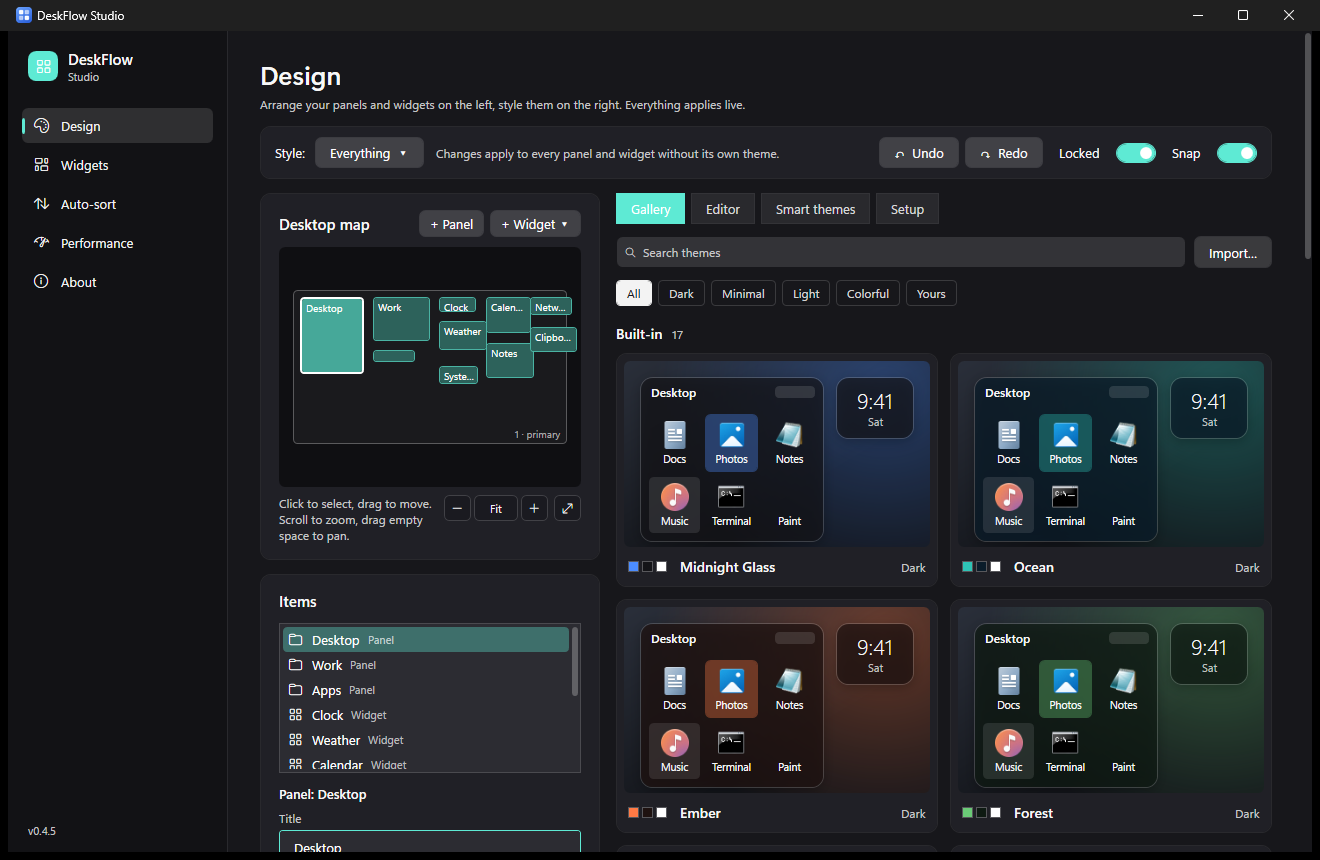
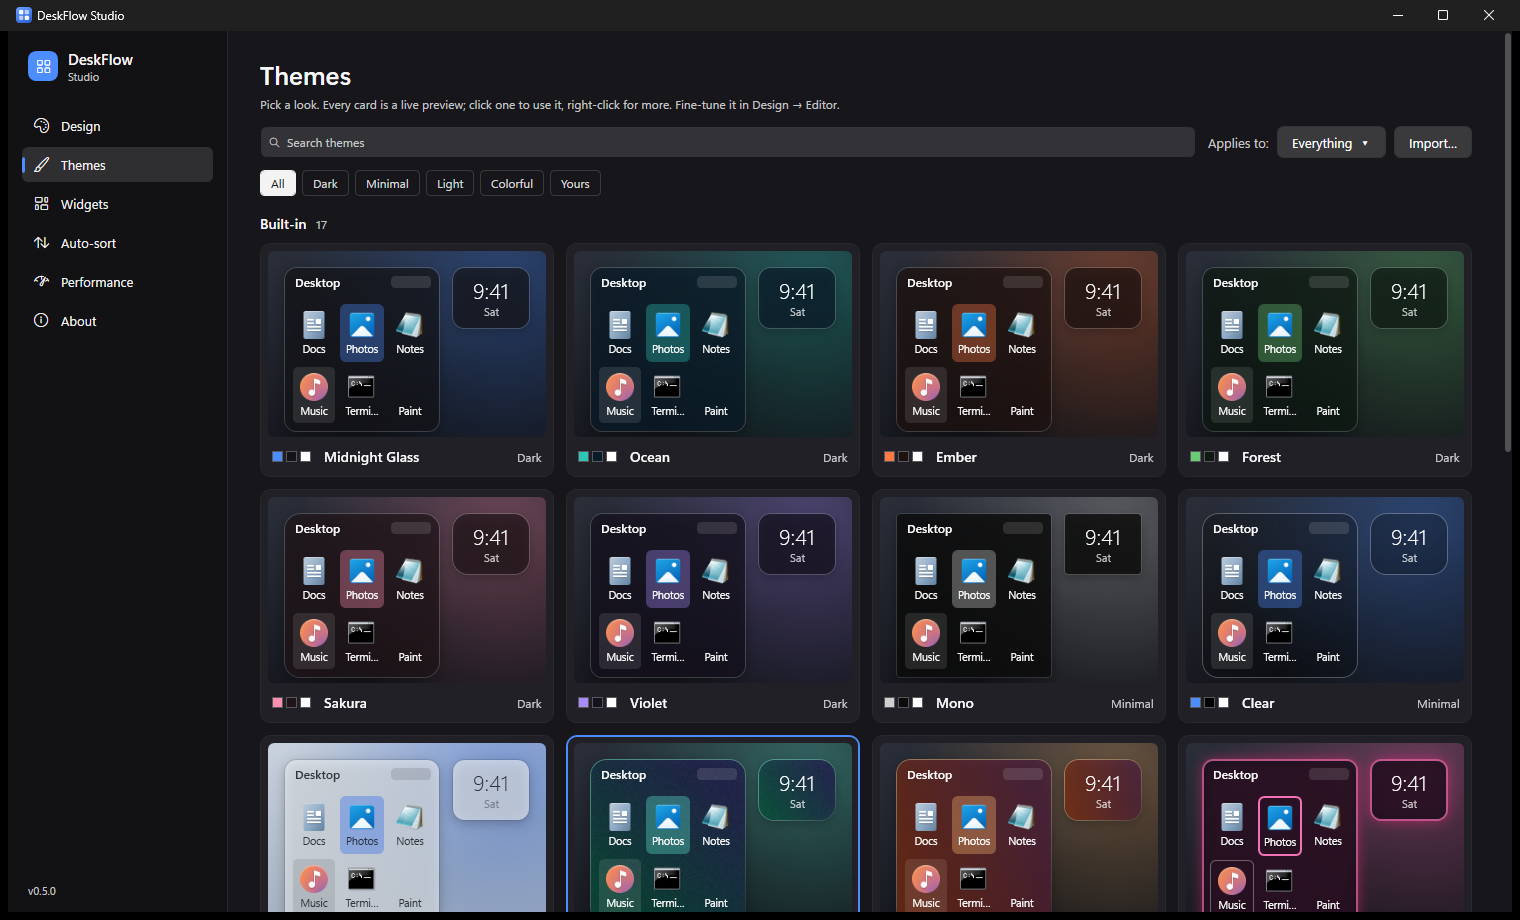
docs: DeskFlow 0.5.0 product page, changelog and screenshots

diff --git a/README.md b/README.md
@@ -72,16 +72,16 @@ clipboard history and notes.</sub>
 </div>
 
 **DeskFlow Studio**
-- A full editor for your layout: a live map of your monitors, exact positions, grid size and snapping.
-- The map **zooms and pans** (scroll to zoom, drag to pan) and can **expand to the full page**, so
-  even a crowded, multi-monitor layout stays easy to work with.
+- A **design workspace** laid out like a design app: a big live canvas of your monitors in the middle,
+  your panels and widgets as **layers** on the left, and an **inspector** on the right with the theme
+  **Editor**, **Smart themes** and **Settings**. Drag on the canvas and your real desktop moves with it.
+- The canvas **zooms and pans** (scroll to zoom, drag to pan), with a toolbar for zoom, fit and one button
+  per monitor, so even a crowded, multi-monitor layout stays easy to work with.
 - Live grid snapping and **smart guides** that line things up with each other while you drag
   (hold <kbd>Alt</kbd> to place freely, <kbd>Esc</kbd> to cancel), plus **undo/redo** for every layout change.
 - **Monitor profiles**: plug in your second screen and your two-monitor layout comes back by itself.
 - A **peek hotkey** that brings your whole desktop layer above every window, and back again.
 - **Export and import layouts** to move your setup to another PC.
-- **Design workspace**: arrange and style in one place, with the theme gallery, editor and smart
-  themes right next to your layout.
 
 **Themes that are actually yours**
 - **17 built-in themes** in a gallery where every card is a live preview, plus themes generated from
@@ -98,13 +98,13 @@ clipboard history and notes.</sub>
 <div align="center">
 <img src="images/studio-themes.png" width="760" alt="DeskFlow Studio theme gallery with live preview cards" />
 <br/>
-<sub><b>Design → Gallery.</b> Every card is a live preview of the theme. Filter by category, click one to use it,
+<sub><b>Themes.</b> Every card is a live preview of the theme. Filter by category, click one to use it,
 or right-click to edit, export or delete it.</sub>
 <br/><br/>
 <img src="images/studio-editor.png" width="760" alt="DeskFlow Studio theme editor with a live preview" />
 <br/>
-<sub><b>Design → Editor.</b> The desktop map and item list on the left; the theme editor's sections in the middle
-(Colours open, the rest summarised); the live preview on the right.</sub>
+<sub><b>Design.</b> Layers on the left, a live canvas of your desktop in the middle (every panel and widget shown as it really looks), and the inspector on the right:
+a fixed live preview above the theme editor's sections (Colours open, the rest summarised).</sub>
 </div>
 
 **Plays nicely with Windows**
@@ -112,7 +112,8 @@ or right-click to edit, export or delete it.</sub>
 - Works with Wallpaper Engine and survives Explorer restarts.
 - Hides the native desktop icons while it runs and puts them back when it closes.
 - Per-monitor DPI aware, single tray icon, starts with Windows if you want it to.
-- Updates itself: DeskFlow checks for new versions and installs them with one click.
+- Updates itself: DeskFlow checks for new versions and installs them with one click. Every update is
+  **digitally signed**, and DeskFlow refuses to install anything that isn't signed by me.
 
 
 ## Install
@@ -122,7 +123,7 @@ or right-click to edit, export or delete it.</sub>
    If your PC doesn't have the .NET 10 Desktop Runtime yet, the installer downloads it from Microsoft for you.
 3. DeskFlow starts in your system tray (look for the blue tile icon near the clock — it may be under the **^** arrow).
 
-Each release also includes a `.sha256` file if you'd like to verify your download.
+Each release also includes a `.sha256` checksum and a `.sig` signature. DeskFlow checks both before it installs an update.
 
 ## How to use
 
@@ -136,9 +137,11 @@ hidden while it runs (they come back when you exit). **Right-click the tray icon
   corner. Things snap to the grid and line up with each other; hold <kbd>Alt</kbd> to place freely and press
   <kbd>Esc</kbd> to cancel a drag.
 - Choose **Lock layout** when you're done, so nothing moves by accident.
+- For pixel-perfect placement, click a widget (or a panel's header) and use the **arrow keys**: 1 pixel per press,
+  or <kbd>Shift</kbd> + arrow to jump to the next grid line. The same keys work on Studio's map.
 - Made a mistake? **Undo layout change** in the tray, or <kbd>Ctrl</kbd> + <kbd>Z</kbd> in Studio.
-- For exact positions, open **Open Studio… → Design**. Click an item on the map or in the list, then type its
-  X / Y / W / H. Scroll on the map to zoom, drag empty space to pan, and use the expand button for a full-width map.
+- For exact positions, open **Open Studio… → Design**. Click an item on the canvas or in **Layers**, then type its
+  X / Y / W / H. Scroll on the canvas to zoom, drag empty space to pan, or use the zoom and monitor buttons in the toolbar.
 
 ### 3. Panels
 - **Add panel…** in the tray creates a new panel. Right-click its empty space → **Panel → Edit source folders…**
@@ -155,15 +158,15 @@ hidden while it runs (they come back when you exit). **Right-click the tray icon
   **Background** to put your own photo behind just that widget.
 
 ### 5. Make it yours
-- **Studio → Design → Gallery**: click any theme to use it. **Use my wallpaper** creates themes from your
+- **Studio → Themes**: click any theme to use it. **Use my wallpaper** creates themes from your
   wallpaper's colours.
-- **Editor**: fine-tune colours, glass, borders, shadows, images, textures, fonts and spacing. Open one section at a
+- **Studio → Design → Editor** (in the inspector on the right): fine-tune colours, glass, borders, shadows, images, textures, fonts and spacing. Open one section at a
   time; the others show a short summary. Everything previews instantly and applies to your desktop as you go.
-- **Style one panel differently**: select it on the map and click **Style this panel** (or right-click the panel →
+- **Style one panel differently**: select it on the canvas and click **Style it** (or right-click the panel →
   **Theme → Customize this panel…**). **Use global theme** puts it back.
-- **Smart themes**: follow Windows light/dark mode, or switch between a day and a night theme on a schedule.
+- **Smart themes** (next to Editor): follow Windows light/dark mode, or switch between a day and a night theme on a schedule.
 - **Share a look**: **Save as theme…**, then **Export pack…** gives you a `.deskflow-theme` file with its images
-  included. Friends open it with **Import…** in the gallery.
+  included. Friends open it with **Import…** on the Themes page.
 
 ### 6. Keep it tidy automatically
 **Studio → Auto-sort** moves new files into the right place for you, for example screenshots into
@@ -171,10 +174,10 @@ Pictures\Screenshots or installers into Downloads\Installers. Rules never overwr
 
 ### 7. Handy extras
 - <kbd>Win</kbd> + <kbd>D</kbd> brings the whole layer forward; click back into an app and it drops behind again.
-- **Peek hotkey**: set one in **Studio → Design → Setup** to pop your panels and widgets above every window and back.
-- **Monitor profiles** (Setup tab) remember a layout per monitor setup, so docking your laptop restores your
+- **Peek hotkey**: set one in **Studio → Design → Settings** to pop your panels and widgets above every window and back.
+- **Monitor profiles** (Settings tab) remember a layout per monitor setup, so docking your laptop restores your
   two-screen arrangement by itself.
-- **Export layout… / Import layout…** (Setup tab) moves your whole setup to another PC.
+- **Export layout… / Import layout…** (Settings tab) moves your whole setup to another PC.
 
 ## Requirements
 

diff --git a/CHANGELOG.md b/CHANGELOG.md
@@ -2,6 +2,45 @@
 
 Every DeskFlow release and what changed. The newest release is at the top.
 
+## v0.5.0
+
+A redesigned Studio, signed updates, faster editing and pixel-precise placement.
+
+- **Studio redesigned as a design workspace**: the Design page now works like a design app.
+  - A big **canvas** of your monitors fills the middle; drag on it and your real desktop follows.
+  - A **toolbar** on top: add panels and widgets, zoom, fit, one button per monitor, the style target,
+    undo/redo, lock and snap.
+  - **Layers** on the left list every panel and widget, with the selected one's position and size.
+  - An **inspector** on the right with three tabs: **Editor** (a fixed live preview above the theme
+    sections), **Smart themes** and **Settings** (grid, guides, peek hotkey, monitor profiles, layout files).
+  - The theme gallery moved to its own **Themes** page in the sidebar, so browsing doesn't crowd the workspace.
+  - Edge-to-edge panes, quiet icon toolbar, underlined tabs and a **status bar** with the selection, zoom, snap
+    and screen size (plus a **?** for canvas shortcuts).
+  - The canvas shows your wallpaper inside each monitor, on a dot grid. Panels and widgets appear as live thumbnails
+    showing what they really look like right now: your icons, the clock's time, the weather, your notes
+    (refreshed every few seconds while you're looking). The selected panel has a corner handle to resize it.
+  - Studio keeps its own clear blue accent, so selections stay visible whatever colour your theme uses.
+- **Signed updates**: every release is now digitally signed, and DeskFlow only installs an update whose
+  signature matches the developer's key. A checksum only catches broken downloads; the signature means
+  even a hijacked download page couldn't push a fake update.
+- **Much faster theme editor**: dragging a slider now updates your whole desktop live and smoothly.
+  Each change only touches what actually changed, so an update takes a few milliseconds instead of
+  freezing Studio for a moment (about 25 times faster on a desktop with photo backgrounds).
+- **Blurred backgrounds stay smooth**: images and textures are only redrawn when they really change.
+- **Snappier gallery**: theme cards are built once and reused, so searching, filtering and switching
+  tabs are instant.
+- **Arrow-key nudging**: with the layout unlocked, click a widget (or a panel's header) and use the
+  arrow keys to move it 1 pixel at a time. **Shift + arrow** jumps to the next grid line when Snap is
+  on, or 10 pixels when it's off. The selected item gets a thicker outline, and a burst of presses
+  undoes in one step.
+- **Nudging in Studio** too: select an item on the Design map and use the same keys.
+- Smoother map panning in Studio.
+- **Smooth scrolling in Studio**: the theme gallery used to stutter while scrolling (about 28 fps
+  with regular hitches). Its live previews are now drawn once and reused, so it scrolls at full speed.
+- **Personal benchmark**: Studio → Performance → **Run benchmark** measures your own setup in about
+  25 seconds (theme update speed, how smoothly each panel and Studio scroll, idle CPU) and saves the
+  results to `benchmark.txt`. Nothing is changed or saved while it runs.
+
 ## v0.4.5
 
 Studio's Design page is easier to work in, especially with many items or monitors.
